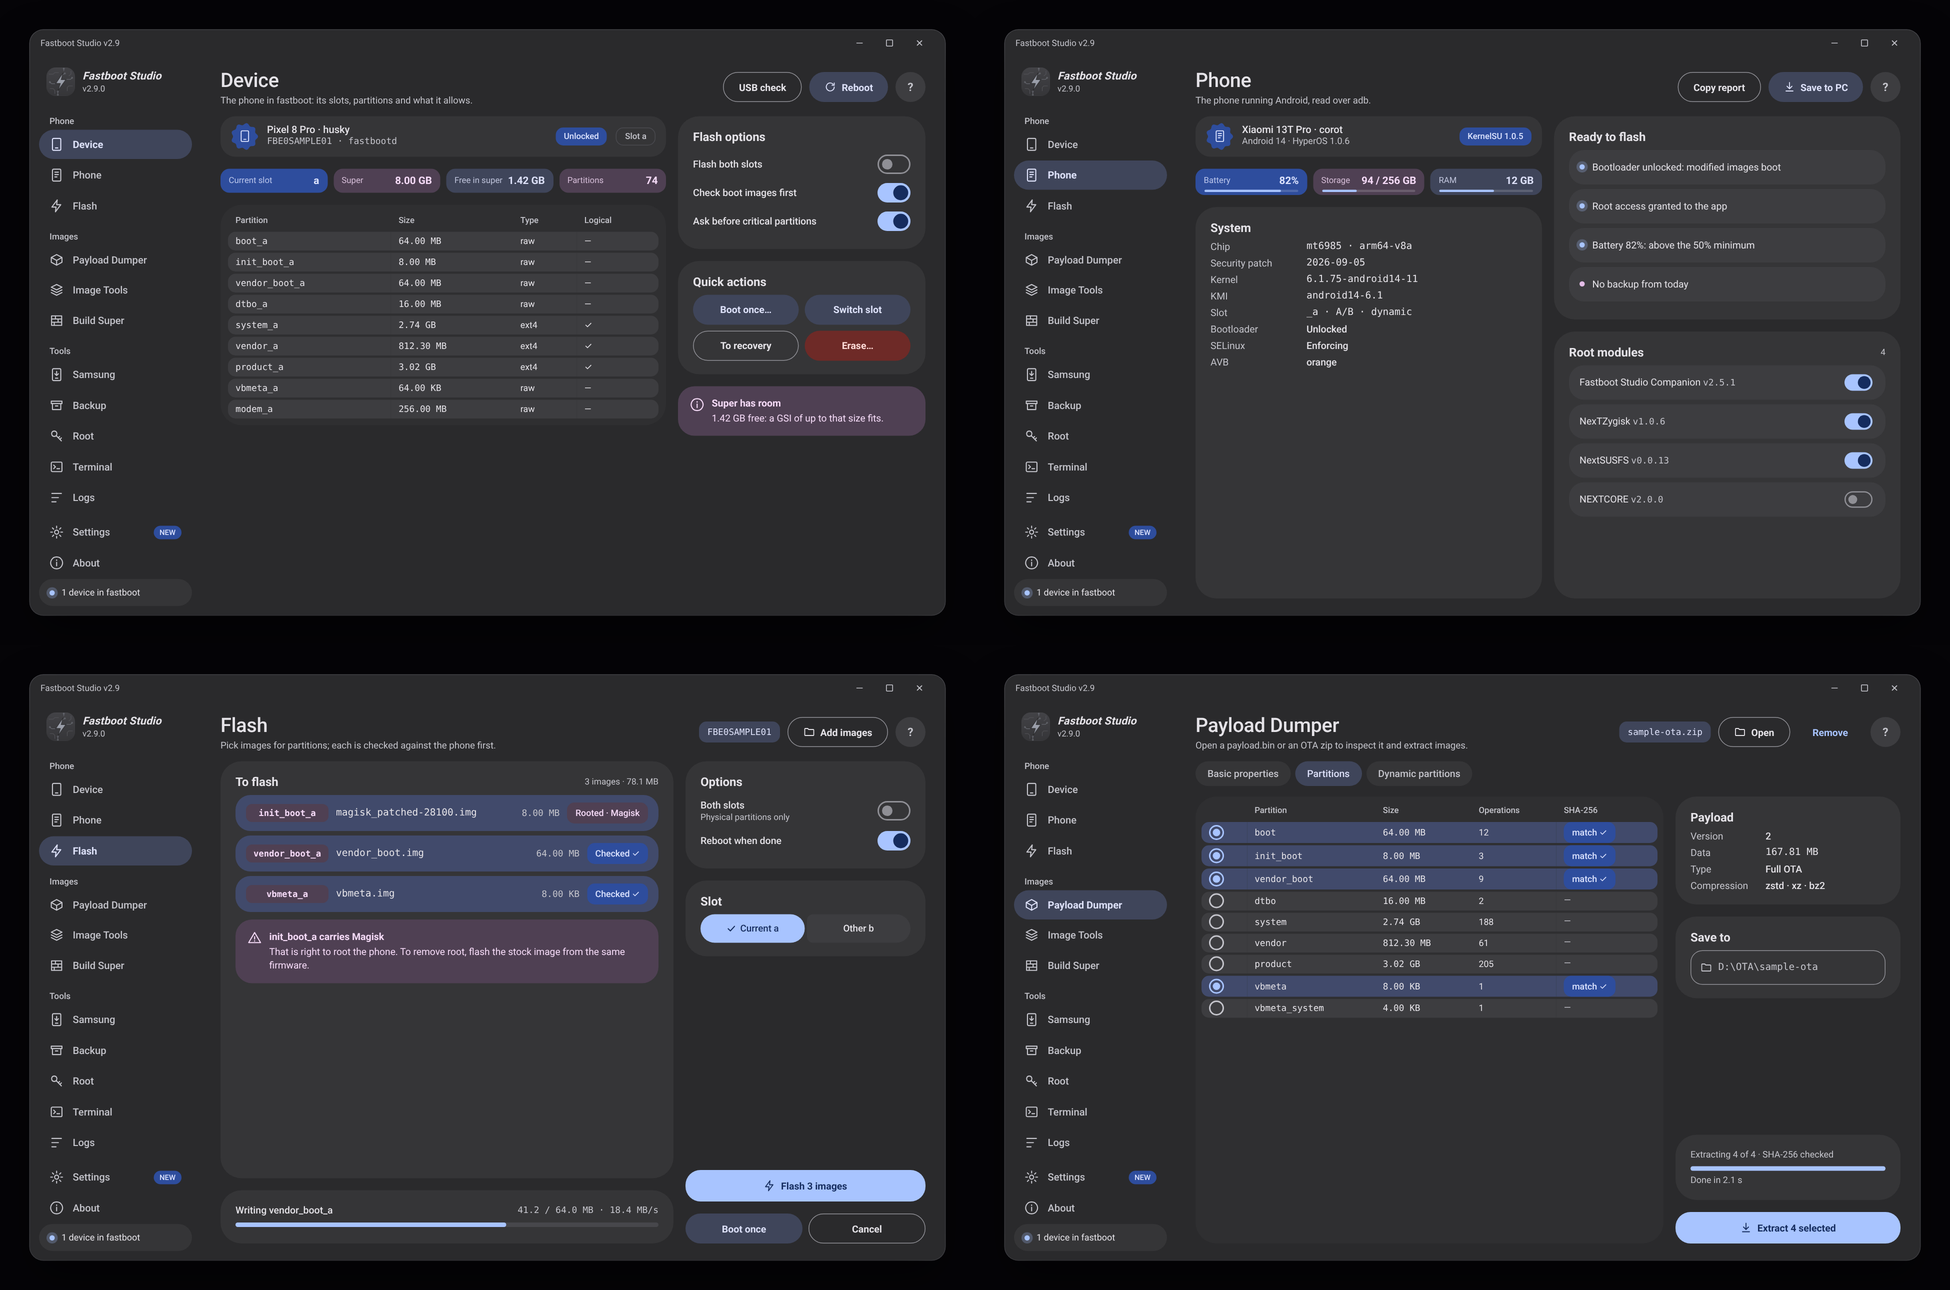
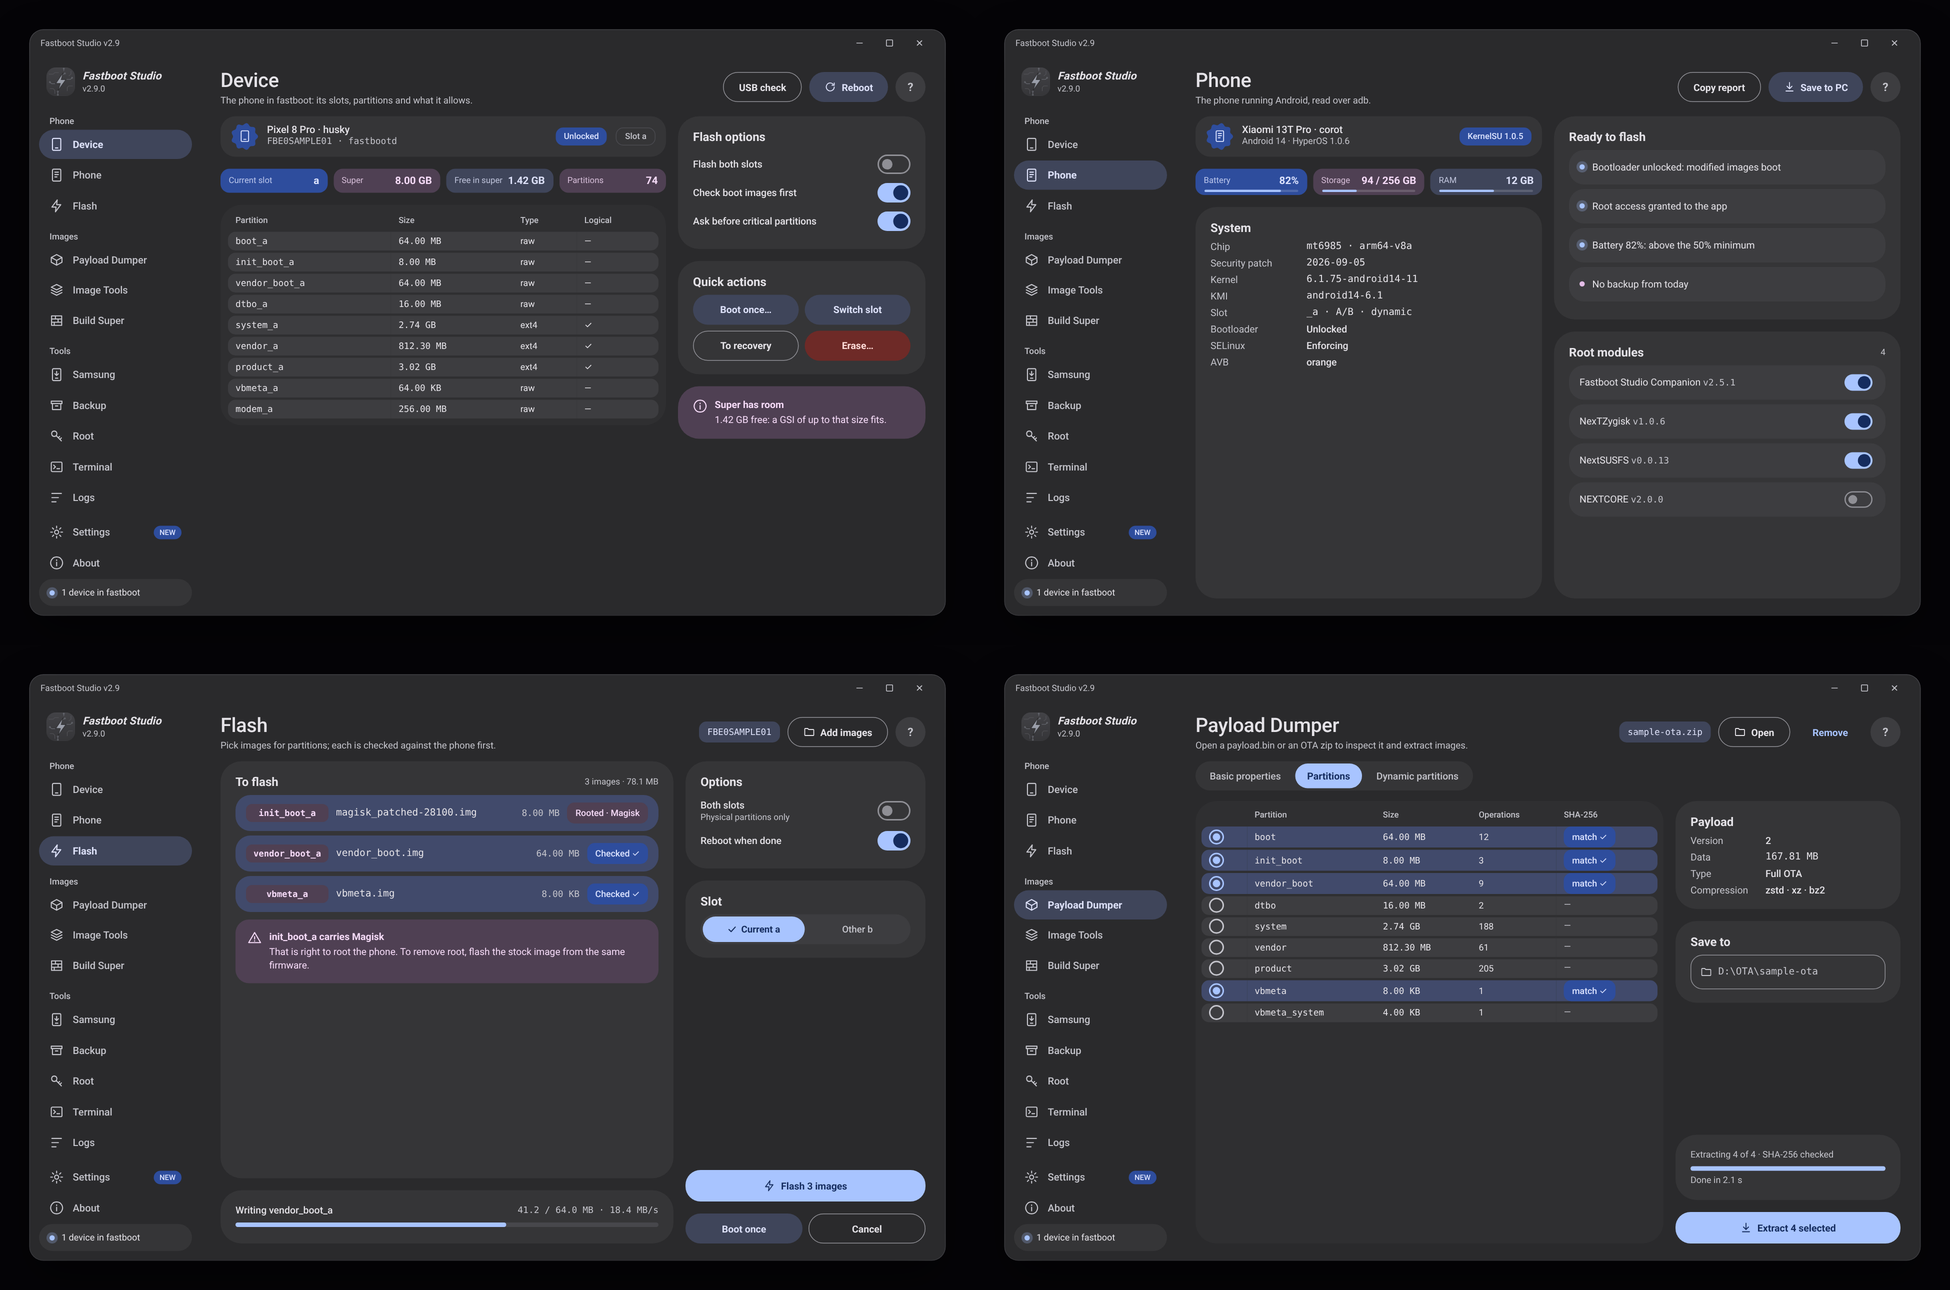
Windows samples: one shape for every switch and tab (a pill track with a filled pill inside), Build Super's layout, output and check in one card, boxes in a column shaped like cards

Changed region(s): [[0.6154, 0.5891, 0.9538, 0.8062], [0.3385, 0.3101, 0.4615, 0.3411], [0.3692, 0.7132, 0.4, 0.7442]]

diff --git a/design/windows/expressive.html b/design/windows/expressive.html
@@ -214,14 +214,18 @@ body.ar { font-family: Kufi, Roboto, sans-serif; }
 .cb { border-radius: 50%; width: 20px; height: 20px; border: 2px solid var(--onSurfaceVariant); }
 .cb.on { background: transparent; border-color: var(--primary); }
 .cb.on::after { width: 10px; height: 10px; border: none; border-radius: 50%; background: var(--primary); transform: none; }
-.seg { border: none; gap: 3px; height: 38px; overflow: visible; border-radius: 0; }
-.seg span { border: none !important; background: var(--surfaceContainerHigh); border-radius: 8px; padding: 0 16px; }
-.seg span:first-child { border-start-start-radius: 19px; border-end-start-radius: 19px; }
-.seg span:last-child { border-start-end-radius: 19px; border-end-end-radius: 19px; }
-.seg span.on { background: var(--primary); color: var(--onPrimary); border-radius: 19px; }
-.tabs { border-bottom: none; gap: 6px; margin: 0 26px 14px; }
-.tabs span { border-radius: 20px; padding: 9px 16px; background: var(--surfaceContainer); }
-.tabs span.on { background: var(--secondaryContainer); color: var(--onSecondaryContainer); }
+/* A segmented switch: one pill track, the chosen side a filled pill inside it (the same everywhere) */
+.seg { border: none; gap: 3px; height: 40px; padding: 3px; overflow: visible; border-radius: 20px; background: var(--surfaceContainerHigh); }
+.seg span { border: none !important; background: none; border-radius: 17px; padding: 0 16px; color: var(--onSurfaceVariant); }
+.seg span.on { background: var(--primary); color: var(--onPrimary); font-weight: 600; }
+/* A box standing in a column is shaped like a card; one inside a card is a step smaller */
+.col > .banner { border-radius: 28px; padding: 16px 20px; }
+.card .banner { border-radius: 18px; }
+.card hr { border: none; height: 1px; background: var(--outlineVariant); margin: 14px 0; }
+/* Tabs are the same pill track as the segmented switches */
+.tabs { border-bottom: none; gap: 3px; padding: 3px; margin: 0 26px 14px; width: fit-content; border-radius: 22px; background: var(--surfaceContainer); }
+.tabs span { border-radius: 19px; padding: 9px 16px; background: none; }
+.tabs span.on { background: var(--primary); color: var(--onPrimary); font-weight: 600; }
 .tabs span.on::after { display: none; }
 .progress { height: 8px; border-radius: 4px; background: var(--surfaceContainerHighest); }
 .progress i { border-radius: 4px; }
@@ -553,16 +557,15 @@ P.bricks = () => bar(T('Build Super', 'بناء Super'), T('Build a super image 
     <div class="col">
       <div class="card">
         <h3>${T('Layout', 'التقسيم')}</h3>
-        <div class="seg" style="width:100%; margin-bottom:10px"><span class="on" style="flex:1; justify-content:center">Virtual A/B</span><span style="flex:1; justify-content:center">A/B</span><span style="flex:1; justify-content:center">${T('Single', 'واحد')}</span></div>
+        <div class="seg" style="width:100%; margin-bottom:12px"><span class="on" style="flex:1; justify-content:center">Virtual A/B</span><span style="flex:1; justify-content:center">A/B</span><span style="flex:1; justify-content:center">${T('Single', 'واحد')}</span></div>
         <div class="kv" style="grid-template-columns: 110px 1fr">
           <span>${T('Device size', 'حجم الجهاز')}</span><span class="mono">8.00 GB</span><span>${T('Metadata', 'الميتاداتا')}</span><span class="mono">65536 × 3</span><span>${T('Block', 'البلوك')}</span><span class="mono">4096</span>
         </div>
-      </div>
-      <div class="card">
+        <hr>
         <h3>${T('Output', 'المخرج')}</h3>
-        <div class="seg" style="width:100%"><span class="on" style="flex:1; justify-content:center">Sparse</span><span style="flex:1; justify-content:center">Raw</span></div>
+        <div class="seg" style="width:100%; margin-bottom:14px"><span class="on" style="flex:1; justify-content:center">Sparse</span><span style="flex:1; justify-content:center">Raw</span></div>
+        <div class="banner">${ck.replace('<svg', '<svg width="19" height="19"')}<div><b>${T('Everything fits', 'كل شي يركب')}</b>${T('1.42 GB stays free in super.', 'يبقى 1.42 جيجا فاضي في super.')}</div></div>
       </div>
-      <div class="banner">${ck.replace('<svg', '<svg width="19" height="19"')}<div><b>${T('Everything fits', 'كل شي يركب')}</b>${T('1.42 GB stays free in super.', 'يبقى 1.42 جيجا فاضي في super.')}</div></div>
       <div style="flex:1"></div>
       <button class="btn filled" style="height:42px">${svg(I.bricks)}${T('Build super.img', 'ابنِ super.img')}</button>
     </div>
